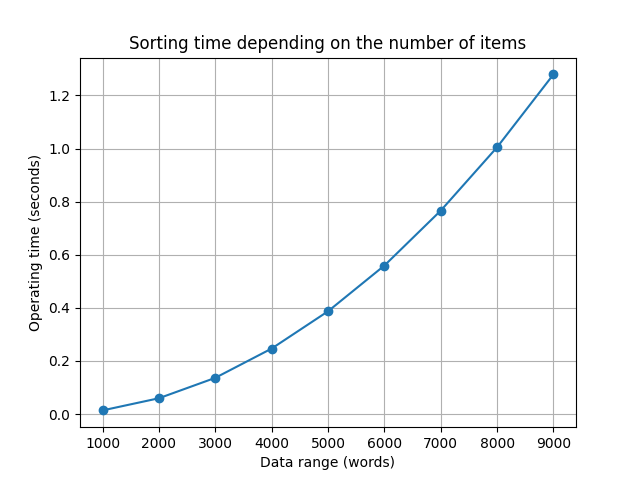
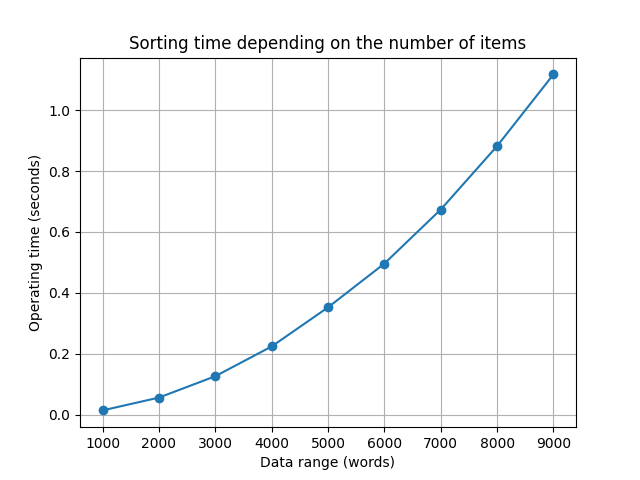
fixed selectionsort

diff --git a/sortowania/selectionsort.py b/sortowania/selectionsort.py
@@ -9,17 +9,14 @@ class Selectionsort:
 
     def selectionsort(self, data):
         for i in range(len(data)):
-            min_index = i + self.mini(data[i:])
-            data[i], data[min_index] = data[min_index], data[i]
-        return data
-
-    def mini(self, lst):
-        # Returns index of minimal element in list
-        min_index = 0
-        for i in range(1, len(lst)):
-            if lst[i] < lst[min_index]:
-                min_index = i
-        return min_index
+            minimum = data[i]
+            for j in range(i, len(data)):
+                if data[j] < minimum:
+                    minimum = data[j]
+                    indeks = j
+            pom = data[indeks]
+            data[indeks] = data[i]
+            data[i] = pom
 
     def selectionsort_runtime(self, data: list):
         start_time = time()
